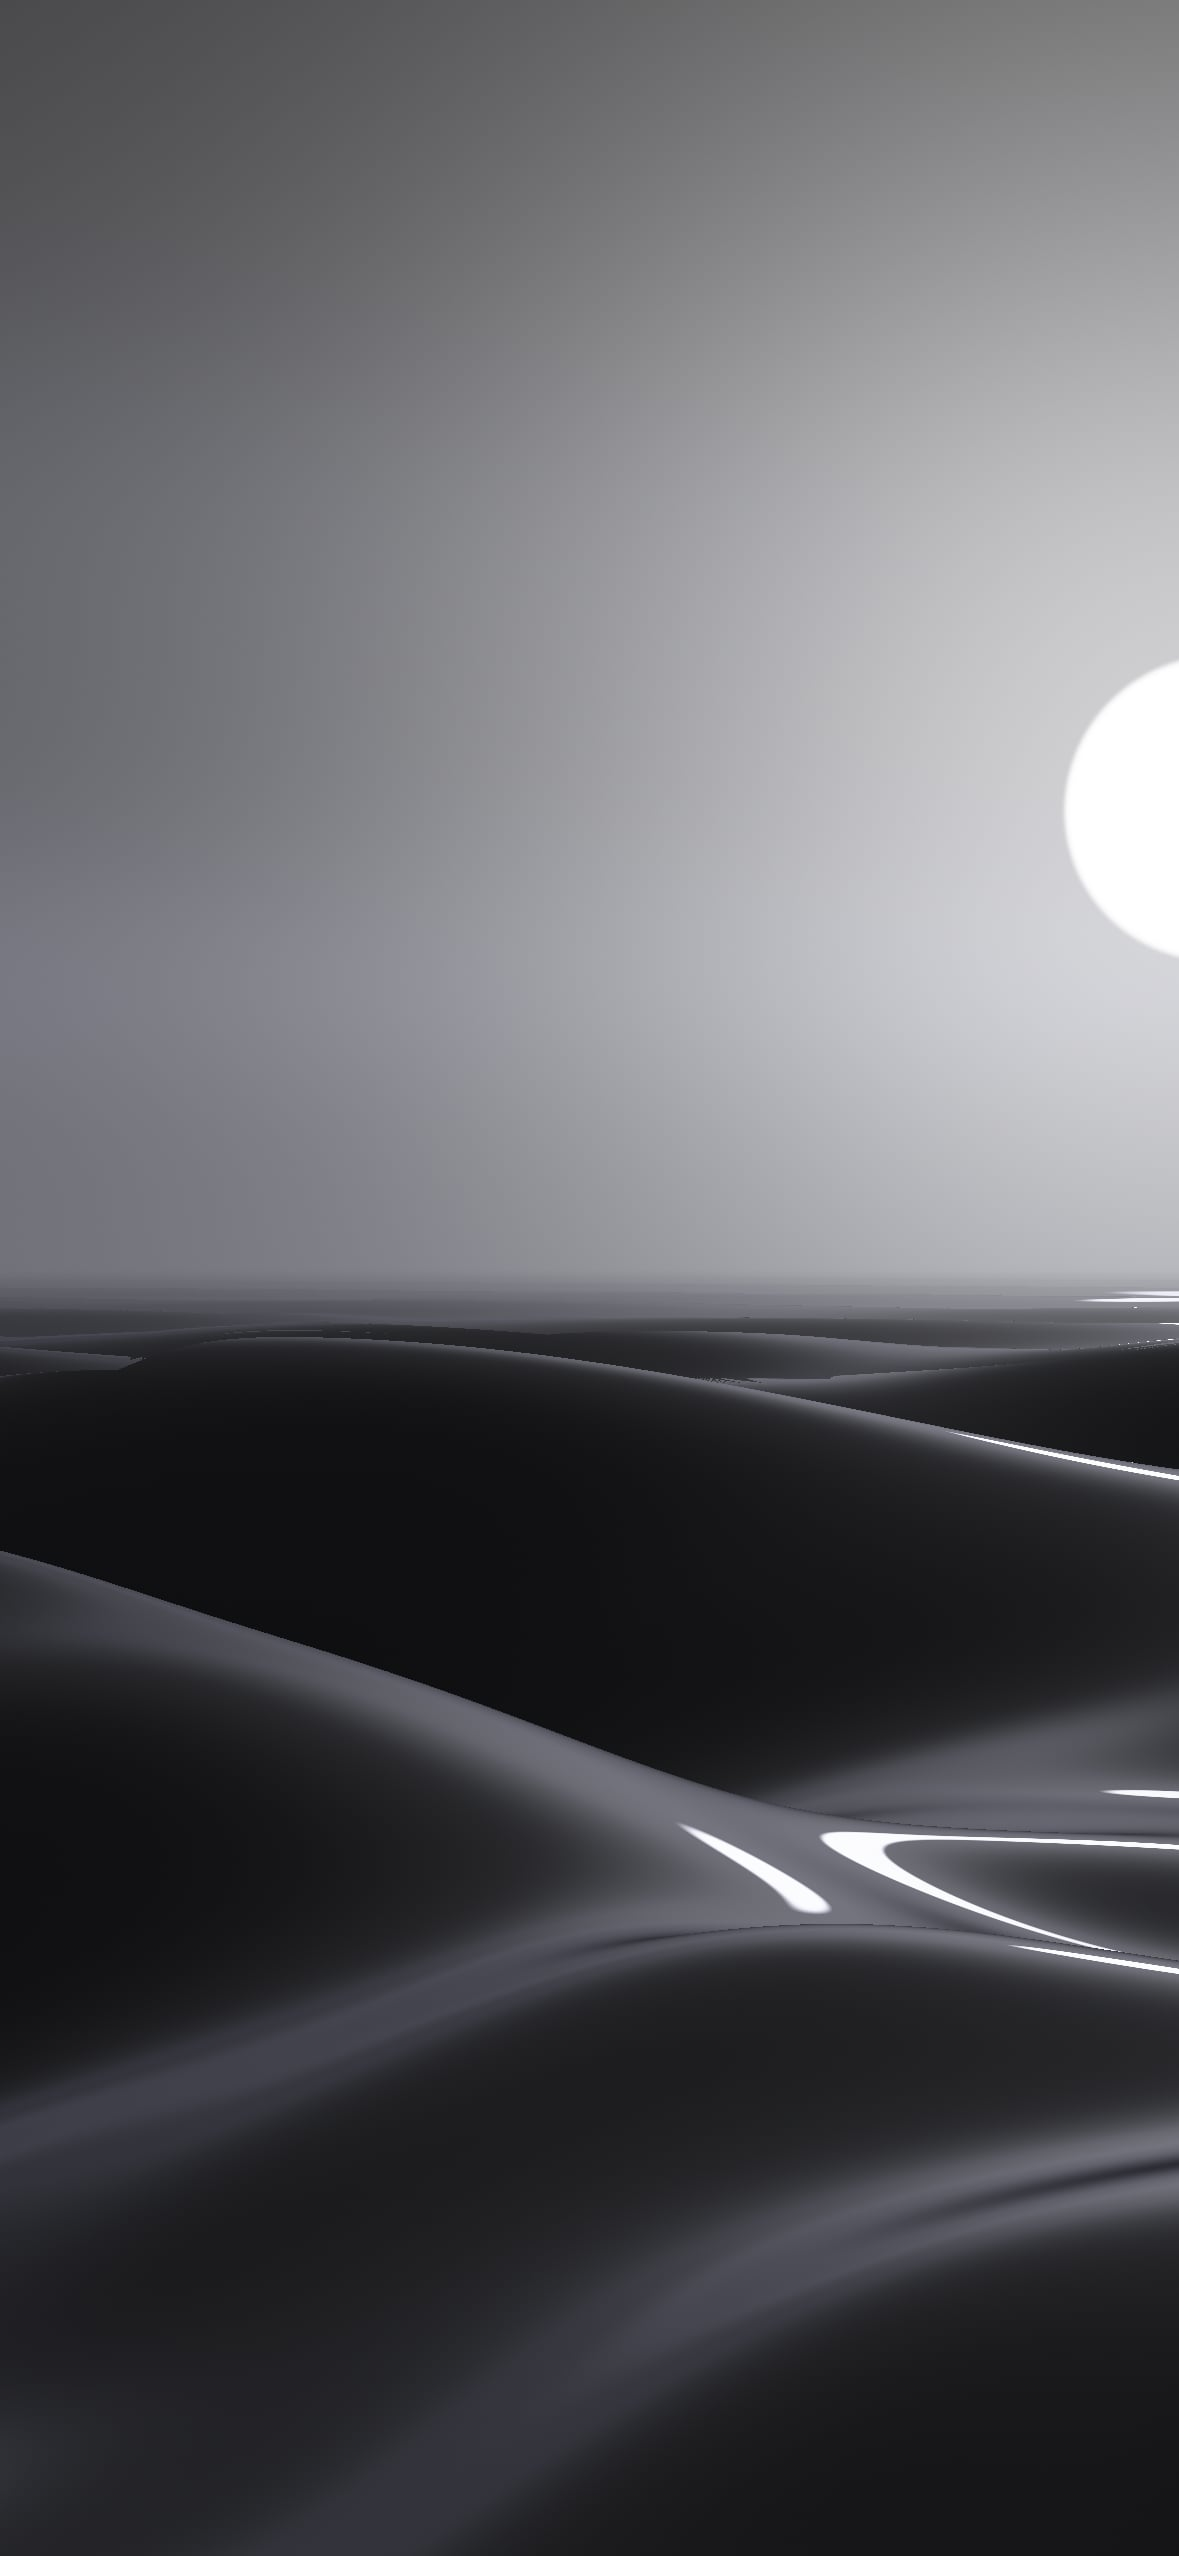
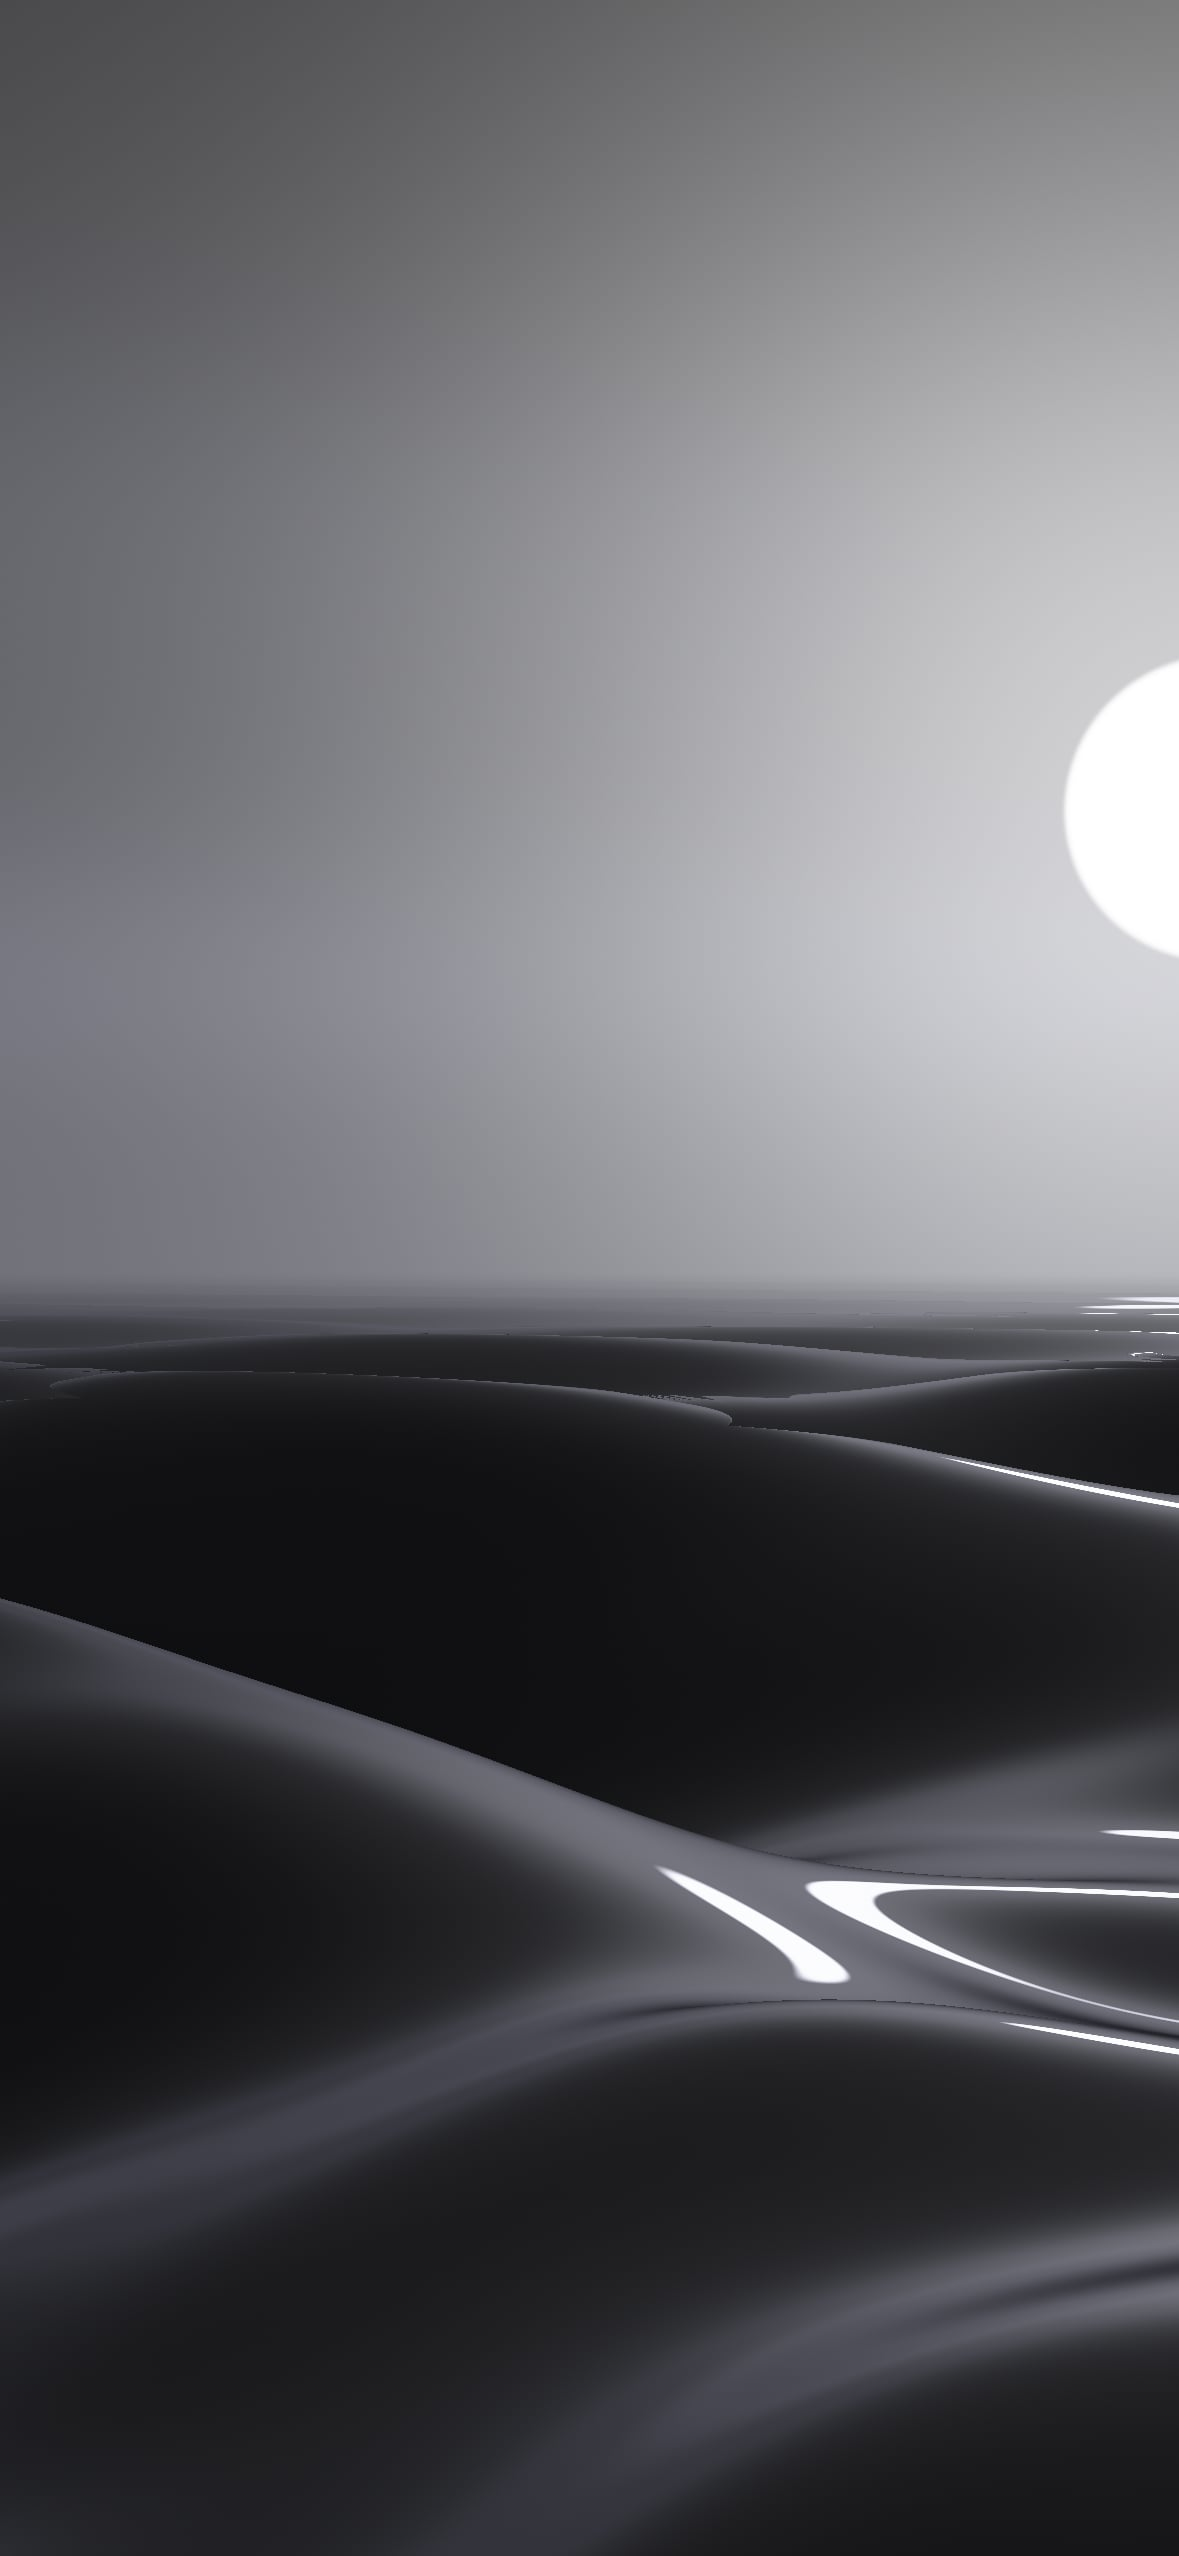
fix(live): keep the Chrome Tide camera above the highest crest at any swell

diff --git a/src/live/scenes/chrome-tide.ts b/src/live/scenes/chrome-tide.ts
@@ -95,7 +95,8 @@ vec3 scene(vec2 uv) {
   float yaw = uMouse.x * 0.15;
   // Portrait screens tilt up a little so the horizon sits nearer the middle.
   float pitch = -0.09 + 0.14 * (1.0 - min(uRes.x / uRes.y, 1.0)) + uMouse.y * 0.08;
-  vec3 ro = vec3(0.0, 1.6, 0.0);
+  // Always above the highest possible crest, so the march never starts under the sea.
+  vec3 ro = vec3(0.0, max(1.6, gMaxH + 0.15), 0.0);
   mat3 cam = lookYawPitch(yaw, pitch);
   vec3 rd = normalize(cam * vec3(uv, 1.6));
 
